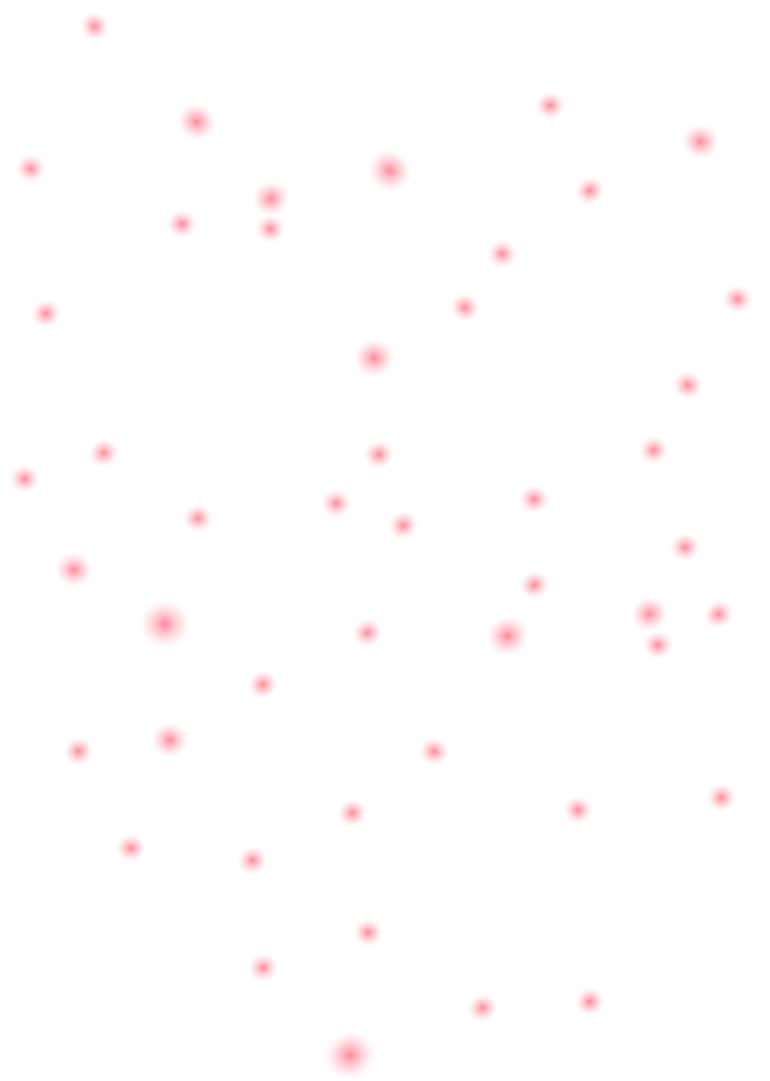
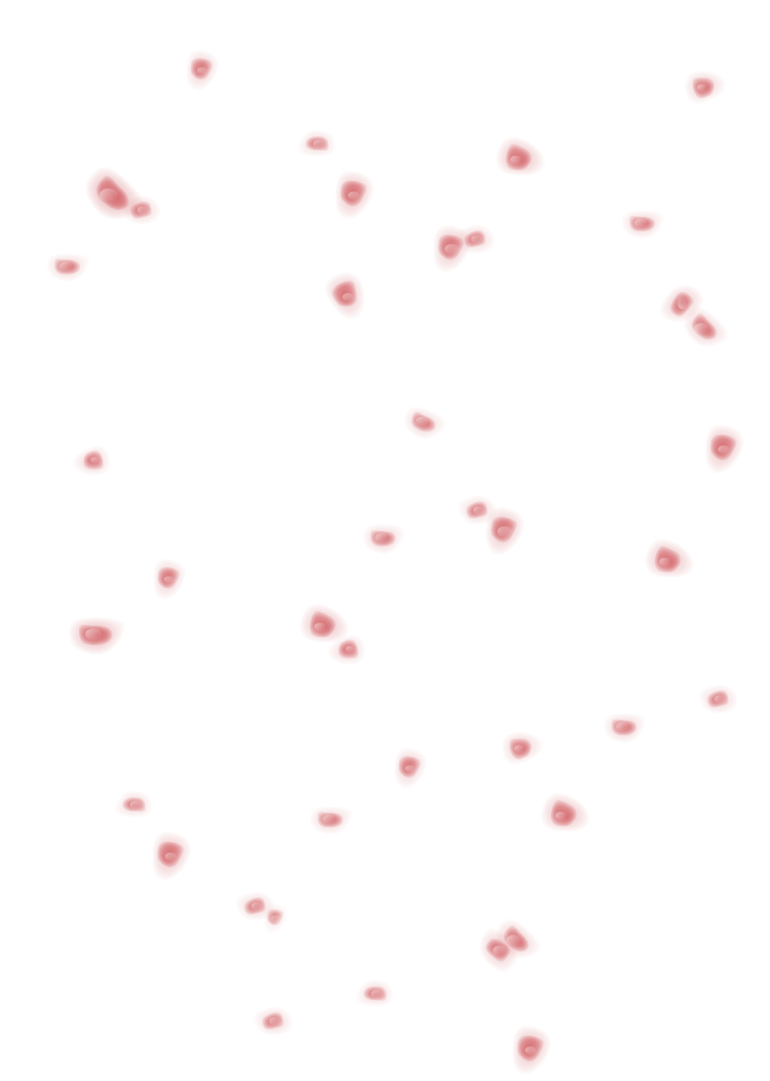
New pox image. More auto-gen files

diff --git a/src/app/javascripts/mylibs/preview/preview.js b/src/app/javascripts/mylibs/preview/preview.js
@@ -1,3 +1,4 @@
+// Generated by CoffeeScript 1.3.3
 (function() {
 
   define(['mylibs/effects/effects', 'mylibs/utils/utils', 'text!mylibs/preview/views/preview.html', 'text!mylibs/preview/views/half.html', 'text!mylibs/preview/views/page.html'], function(effects, utils, previewTemplate, halfTemplate, pageTemplate) {
@@ -5,6 +6,7 @@
     
     Select preview shows pages of 6 live previews using webgl effects
     */
+
     var animation, canvas, ctx, draw, ds, flipping, frame, keyboard, page, paused, previews, pub, setThumbnailsToBeUpdated, shouldUpdateThumbnails;
     paused = false;
     canvas = {};
@@ -15,7 +17,9 @@
     flipping = false;
     shouldUpdateThumbnails = true;
     setThumbnailsToBeUpdated = function() {
-      if (!flipping) return shouldUpdateThumbnails = true;
+      if (!flipping) {
+        return shouldUpdateThumbnails = true;
+      }
     };
     setInterval(setThumbnailsToBeUpdated, 1000);
     animation = {
@@ -55,7 +59,9 @@
     keyboard = function(enabled) {
       if (enabled) {
         return $.subscribe("/keyboard/arrow", function(e) {
-          if (!flipping) return page(e);
+          if (!flipping) {
+            return page(e);
+          }
         });
       } else {
         return $.unsubcribe("/keyboard/arrow");
@@ -64,10 +70,14 @@
     page = function(direction) {
       if (direction === "left") {
         animation.reverse = false;
-        if (ds.page() < ds.totalPages()) return ds.page(ds.page() + 1);
+        if (ds.page() < ds.totalPages()) {
+          return ds.page(ds.page() + 1);
+        }
       } else {
         animation.reverse = true;
-        if (ds.page() > 1) return ds.page(ds.page() - 1);
+        if (ds.page() > 1) {
+          return ds.page(ds.page() - 1);
+        }
       }
     };
     return pub = {
@@ -78,7 +88,9 @@
         return $.publish("/camera/pause", [false]);
       },
       swipe: function(e) {
-        if (!flipping) return page(e.direction);
+        if (!flipping) {
+          return page(e.direction);
+        }
       },
       init: function(selector) {
         var nextPage, page1, page2, previousPage;

diff --git a/src/app/javascripts/mylibs/effects/effects.js b/src/app/javascripts/mylibs/effects/effects.js
@@ -1,3 +1,4 @@
+// Generated by CoffeeScript 1.3.3
 (function() {
 
   define(['libs/face/ccv', 'libs/face/face'], function(assets) {
@@ -258,7 +259,9 @@
           name: "Frogman",
           filter: function(canvas, element, frame, track) {
             var effect;
-            if (track.faces.length !== 0) faces = track.faces;
+            if (track.faces.length !== 0) {
+              faces = track.faces;
+            }
             effect = function(canvas, element) {
               var eyeWidth, face, factor, height, width, x, y, _i, _len, _results;
               factor = element.width / track.trackWidth;
@@ -282,7 +285,9 @@
           name: "Chubby Bunny",
           filter: function(canvas, element, frame, stream) {
             var effect;
-            if (stream.faces.length !== 0) faces = stream.faces;
+            if (stream.faces.length !== 0) {
+              faces = stream.faces;
+            }
             effect = function(canvas, element) {
               var eyeWidth, face, factor, height, width, x, y, _i, _len, _results;
               factor = element.width / stream.trackWidth;
@@ -306,7 +311,9 @@
           name: "Giraffe",
           filter: function(canvas, element, frame, stream) {
             var effect;
-            if (stream.faces.length !== 0) faces = stream.faces;
+            if (stream.faces.length !== 0) {
+              faces = stream.faces;
+            }
             effect = function(canvas, element) {
               var face, factor, height, width, x, y, _i, _len;
               factor = element.width / stream.trackWidth;
@@ -326,7 +333,9 @@
           name: "Chicken Pox",
           filter: function(canvas, element, frame, stream) {
             var face, factor, height, width, x, y, _i, _len, _results;
-            if (stream.faces.length !== 0) faces = stream.faces;
+            if (stream.faces.length !== 0) {
+              faces = stream.faces;
+            }
             factor = element.width / stream.trackWidth;
             _results = [];
             for (_i = 0, _len = faces.length; _i < _len; _i++) {

diff --git a/src/app/javascripts/mylibs/utils/utils.js b/src/app/javascripts/mylibs/utils/utils.js
@@ -1,3 +1,4 @@
+// Generated by CoffeeScript 1.3.3
 (function() {
 
   define(['mylibs/file/filewrapper'], function(filewrapper) {
@@ -6,6 +7,7 @@
     This file contains utility functions and normalizations. this used to contain more functions, but
     most have been moved into the extension
     */
+
     var bufferCanvas, bufferContext, pub;
     bufferCanvas = document.createElement("canvas");
     bufferCanvas.width = 720 / 2;
@@ -16,14 +18,14 @@
         return window.requestAnimationFrame || window.webkitRequestAnimationFrame;
       },
       createVideo: function(frames) {
-        var i, transcode, _ref;
+        var i, transcode, _i, _ref;
         transcode = function() {
           var blob, blobUrl, i, name, pair, video, _i, _len, _ref;
           video = new Whammy.Video();
           _ref = (function() {
-            var _ref, _results;
+            var _j, _ref, _results;
             _results = [];
-            for (i = 0, _ref = frames.length - 2; 0 <= _ref ? i <= _ref : i >= _ref; 0 <= _ref ? i++ : i--) {
+            for (i = _j = 0, _ref = frames.length - 2; 0 <= _ref ? _j <= _ref : _j >= _ref; i = 0 <= _ref ? ++_j : --_j) {
               _results.push(frames.slice(i, (i + 1) + 1 || 9e9));
             }
             return _results;
@@ -39,7 +41,7 @@
           filewrapper.save(name, blob);
           return $.publish("/bar/time/hide");
         };
-        for (i = 0, _ref = frames.length; 0 <= _ref ? i < _ref : i > _ref; 0 <= _ref ? i++ : i--) {
+        for (i = _i = 0, _ref = frames.length; 0 <= _ref ? _i < _ref : _i > _ref; i = 0 <= _ref ? ++_i : --_i) {
           bufferContext.putImageData(frames[i].imageData, 0, 0);
           frames[i] = {
             imageData: bufferCanvas.toDataURL('image/webp', 0.8),

diff --git a/src/chrome/javascripts/mylibs/file/file.js b/src/chrome/javascripts/mylibs/file/file.js
@@ -1,3 +1,4 @@
+// Generated by CoffeeScript 1.3.3
 (function() {
 
   define(['mylibs/utils/utils'], function(utils) {
@@ -5,14 +6,19 @@
     
     The file module takes care of all the reading and writing to and from the file system
     */
+
     var blobBuiler, compare, destroy, download, errorHandler, fileSystem, getFileExtension, list, myPicturesDir, pub, read, readSingleFile, save, withFileSystem;
     window.requestFileSystem = window.requestFileSystem || window.webkitRequestFileSystem;
     fileSystem = null;
     myPicturesDir = {};
     blobBuiler = {};
     compare = function(a, b) {
-      if (a.name < b.name) return -1;
-      if (a.name > b.name) return 1;
+      if (a.name < b.name) {
+        return -1;
+      }
+      if (a.name > b.name) {
+        return 1;
+      }
       return 0;
     };
     getFileExtension = function(filename) {
@@ -58,7 +64,9 @@
       }
     };
     save = function(name, blob) {
-      if (typeof blob === "string") blob = utils.toBlob(blob);
+      if (typeof blob === "string") {
+        blob = utils.toBlob(blob);
+      }
       return withFileSystem(function() {
         return fileSystem.root.getFile(name, {
           create: true
@@ -177,7 +185,9 @@
               var entry, readFile, _i, _len;
               for (_i = 0, _len = results.length; _i < _len; _i++) {
                 entry = results[_i];
-                if (entry.isFile) entries.push(entry);
+                if (entry.isFile) {
+                  entries.push(entry);
+                }
               }
               readFile = function(i) {
                 var name, type;

diff --git a/src/app/javascripts/mylibs/gallery/gallery.js b/src/app/javascripts/mylibs/gallery/gallery.js
@@ -1,3 +1,4 @@
+// Generated by CoffeeScript 1.3.3
 (function() {
 
   define(['Kendo', 'mylibs/utils/utils', 'mylibs/file/filewrapper', 'text!mylibs/gallery/views/thumb.html'], function(kendo, utils, filewrapper, template) {
@@ -132,9 +133,9 @@
       complete = function() {
         var justPaged;
         setTimeout(function() {
-          var item, _j, _len2, _results;
+          var _j, _len1, _results;
           _results = [];
-          for (_j = 0, _len2 = thumbs.length; _j < _len2; _j++) {
+          for (_j = 0, _len1 = thumbs.length; _j < _len1; _j++) {
             item = thumbs[_j];
             _results.push((function() {
               var element;
@@ -173,7 +174,9 @@
           }, "/camera/pause"
         ]);
         return $.subscribe("/keyboard/arrow", function(e) {
-          if (!flipping) return page((e === "right") - (e === "left"));
+          if (!flipping) {
+            return page((e === "right") - (e === "left"));
+          }
         });
       },
       hide: function(e) {

diff --git a/src/chrome/javascripts/app.js b/src/chrome/javascripts/app.js
@@ -1,7 +1,9 @@
+// Generated by CoffeeScript 1.3.3
 (function() {
 
   define(['mylibs/postman/postman', 'mylibs/utils/utils', 'mylibs/file/file', 'mylibs/intents/intents', 'mylibs/notify/notify', 'mylibs/assets/assets', 'libs/face/track'], function(postman, utils, file, intents, notify, assets, face) {
     'use strict';
+
     var canvas, ctx, draw, errback, hollaback, iframe, paused, pub, skip, skipBit, skipMax, track, update;
     iframe = iframe = document.getElementById("iframe");
     canvas = document.getElementById("canvas");
@@ -17,7 +19,9 @@
     update = function() {
       var buffer, img;
       if (!paused) {
-        if (skipBit === 0) track = face.track(video);
+        if (skipBit === 0) {
+          track = face.track(video);
+        }
         ctx.drawImage(video, 0, 0, video.width, video.height);
         img = ctx.getImageData(0, 0, canvas.width, canvas.height);
         buffer = img.data.buffer;

diff --git a/src/app/javascripts/mylibs/camera/camera.js b/src/app/javascripts/mylibs/camera/camera.js
@@ -1,3 +1,4 @@
+// Generated by CoffeeScript 1.3.3
 (function() {
 
   define(['mylibs/preview/preview', 'mylibs/utils/utils', 'libs/face/track'], function(preview, utils, face) {
@@ -6,6 +7,7 @@
     The camera module takes care of getting the users media and drawing it to a canvas.
     It also handles the coutdown that is intitiated
     */
+
     var $counter, beep, canvas, countdown, ctx, paused, pub, turnOn;
     $counter = {};
     canvas = {};
@@ -20,7 +22,9 @@
         var imgData, skip, videoData;
         if (!paused) {
           skip = false;
-          if (window.testing) message.track = face.track(canvas);
+          if (window.testing) {
+            message.track = face.track(canvas);
+          }
           imgData = ctx.getImageData(0, 0, canvas.width, canvas.height);
           videoData = new Uint8ClampedArray(message.image);
           imgData.data.set(videoData);

diff --git a/src/app/javascripts/workers/video.js b/src/app/javascripts/workers/video.js
@@ -1,3 +1,4 @@
+// Generated by CoffeeScript 1.3.3
 (function() {
 
   (function() {
@@ -7,10 +8,10 @@
       importScripts("../libs/record/whammy.min.js");
       video = new Whammy.Video();
       _ref = (function() {
-        var _ref, _results;
+        var _j, _ref, _results;
         _results = [];
-        for (i = 0, _ref = frames.length - 2; 0 <= _ref ? i <= _ref : i >= _ref; 0 <= _ref ? i++ : i--) {
-          _results.push(frames.slice(i, (i + 2)));
+        for (i = _j = 0, _ref = frames.length - 2; 0 <= _ref ? _j <= _ref : _j >= _ref; i = 0 <= _ref ? ++_j : --_j) {
+          _results.push(frames.slice(i, i + 2));
         }
         return _results;
       })();

diff --git a/src/chrome/javascripts/mylibs/notify/notify.js b/src/chrome/javascripts/mylibs/notify/notify.js
@@ -1,3 +1,4 @@
+// Generated by CoffeeScript 1.3.3
 (function() {
 
   define([], function() {
@@ -6,6 +7,7 @@
     	shows the chrome notification window, and takes care of closing it if it isn't 
     	marked as sticky
     */
+
     var pub;
     return pub = {
       init: function() {
@@ -15,7 +17,9 @@
             return notification.close();
           };
           notification = webkitNotifications.createNotification('icon_16.png', title, body);
-          if (!sticky) setTimeout(close, 3000);
+          if (!sticky) {
+            setTimeout(close, 3000);
+          }
           return notification.show();
         });
       }

diff --git a/src/app/javascripts/app.js b/src/app/javascripts/app.js
@@ -1,3 +1,4 @@
+// Generated by CoffeeScript 1.3.3
 (function() {
 
   define(['Kendo', 'Glfx', 'mylibs/camera/camera', 'mylibs/bar/bottom', 'mylibs/bar/top', 'mylibs/preview/preview', 'mylibs/full/full', 'mylibs/postman/postman', 'mylibs/utils/utils', 'mylibs/gallery/gallery', 'mylibs/gallery/details', 'mylibs/share/share', 'mylibs/events/events', 'mylibs/file/filewrapper', 'libs/record/record'], function(kendo, glfx, camera, bottom, top, preview, full, postman, utils, gallery, details, share, events, filewrapper, record) {

diff --git a/src/app/javascripts/libs/face/track.js b/src/app/javascripts/libs/face/track.js
@@ -1,3 +1,4 @@
+// Generated by CoffeeScript 1.3.3
 (function() {
 
   define(['libs/face/ccv', 'libs/face/face'], function() {
@@ -33,7 +34,9 @@
           interval: 5,
           min_neighbors: 1
         });
-        if (comp.length) cache.comp = comp;
+        if (comp.length) {
+          cache.comp = comp;
+        }
         _ref = cache.comp;
         for (_i = 0, _len = _ref.length; _i < _len; _i++) {
           i = _ref[_i];

diff --git a/src/chrome/javascripts/mylibs/assets/assets.js b/src/chrome/javascripts/mylibs/assets/assets.js
@@ -1,3 +1,4 @@
+// Generated by CoffeeScript 1.3.3
 (function() {
 
   define(['mylibs/utils/utils'], function(utils) {
@@ -7,7 +8,9 @@
     	application. this is because the sandbox treats local resources as suspect.
     	this way, the sandbox will trust these images and let us draw and read them from canvas's
     */
+
     'use strict';
+
     var assets, pub;
     assets = [
       {
